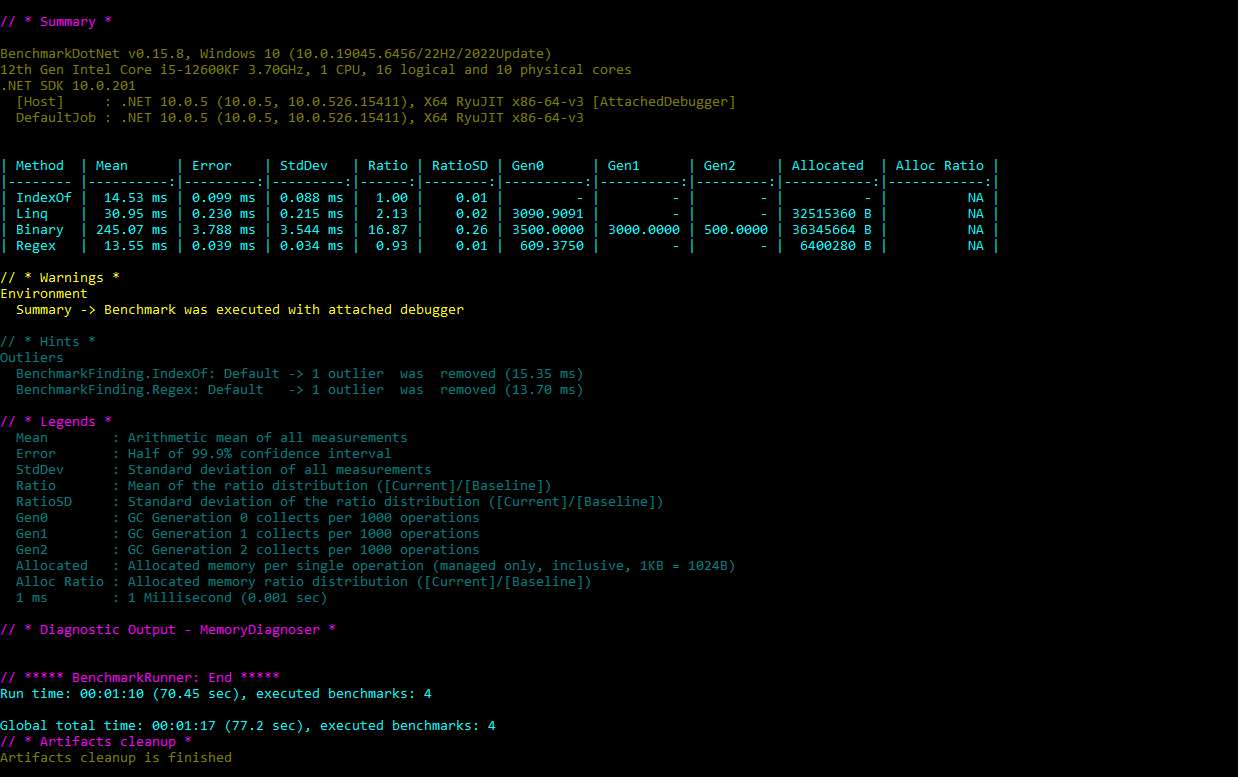
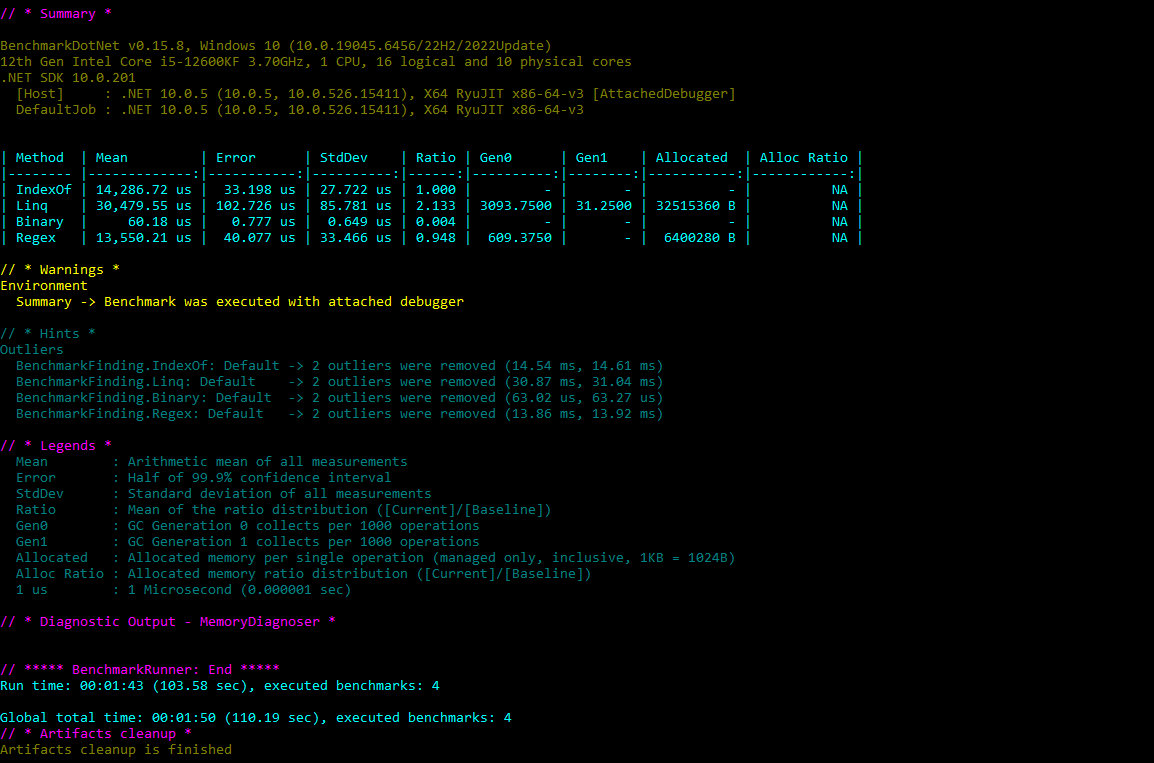
Бинарный поиск теперь подготавливает данные 1 раз, а не при каждом запуске, обновлены результаты тестов

Changed region(s): [[0.0, 0.0, 0.8111, 0.9948], [0.9983, 0.0, 1.0, 1.0]]

diff --git a/wordCount/WordCount.cs b/wordCount/WordCount.cs
@@ -7,6 +7,7 @@ namespace WordCount
 {
     public class WordCountMain
     {
+         string[]? sortedText = null;
 
         public static char[] Separators = {
     ' ', '\t', '\n', '\r',
@@ -73,28 +74,30 @@ namespace WordCount
 
         public  long WordCount_Binary(string[] text, string word)
         {
-            var splitedText = text
-         .SelectMany(t => t.Split(Separators, StringSplitOptions.RemoveEmptyEntries))
-         .ToArray();
-            Array.Sort(splitedText, StringComparer.OrdinalIgnoreCase);
-
+            if (sortedText == null)
+            {
+                sortedText = text
+             .SelectMany(t => t.Split(Separators, StringSplitOptions.RemoveEmptyEntries))
+             .ToArray();
+                Array.Sort(sortedText, StringComparer.OrdinalIgnoreCase);
+            }
 
 
             var count = 0L;
-            var index = Array.BinarySearch(splitedText, word, StringComparer.OrdinalIgnoreCase);
+            var index = Array.BinarySearch(sortedText, word, StringComparer.OrdinalIgnoreCase);
             if (index < 0)
             {
                 return count;
             }
             count++;
             var left = index - 1;
-            while (left >= 0 && String.Equals(splitedText[left], word, StringComparison.OrdinalIgnoreCase))
+            while (left >= 0 && String.Equals(sortedText[left], word, StringComparison.OrdinalIgnoreCase))
             {
                 count++;
                 left--;
             }
             var right = index + 1;
-            while (right < splitedText.Length && String.Equals(splitedText[right], word, StringComparison.OrdinalIgnoreCase))
+            while (right < sortedText.Length && String.Equals(sortedText[right], word, StringComparison.OrdinalIgnoreCase))
             {
                 count++;
                 right++;

diff --git a/README.md b/README.md
@@ -12,7 +12,7 @@
 |---|---|
 | `WordCount_IndexOf` | Посимвольный поиск через `String.IndexOf` с проверкой границ слова |
 | `WordCount_Linq` | Разбивка на слова через `Split` + фильтрация через LINQ |
-| `WordCount_Binary` | Разбивка на слова, сортировка массива, бинарный поиск + обход соседей |
+| `WordCount_Binary` | Разбивка на слова, сортировка массива(происходит только 1 раз), бинарный поиск + обход соседей |
 | `WordCount_Regex` | Поиск через регулярное выражение с lookahead/lookbehind для кириллицы |
 
 
